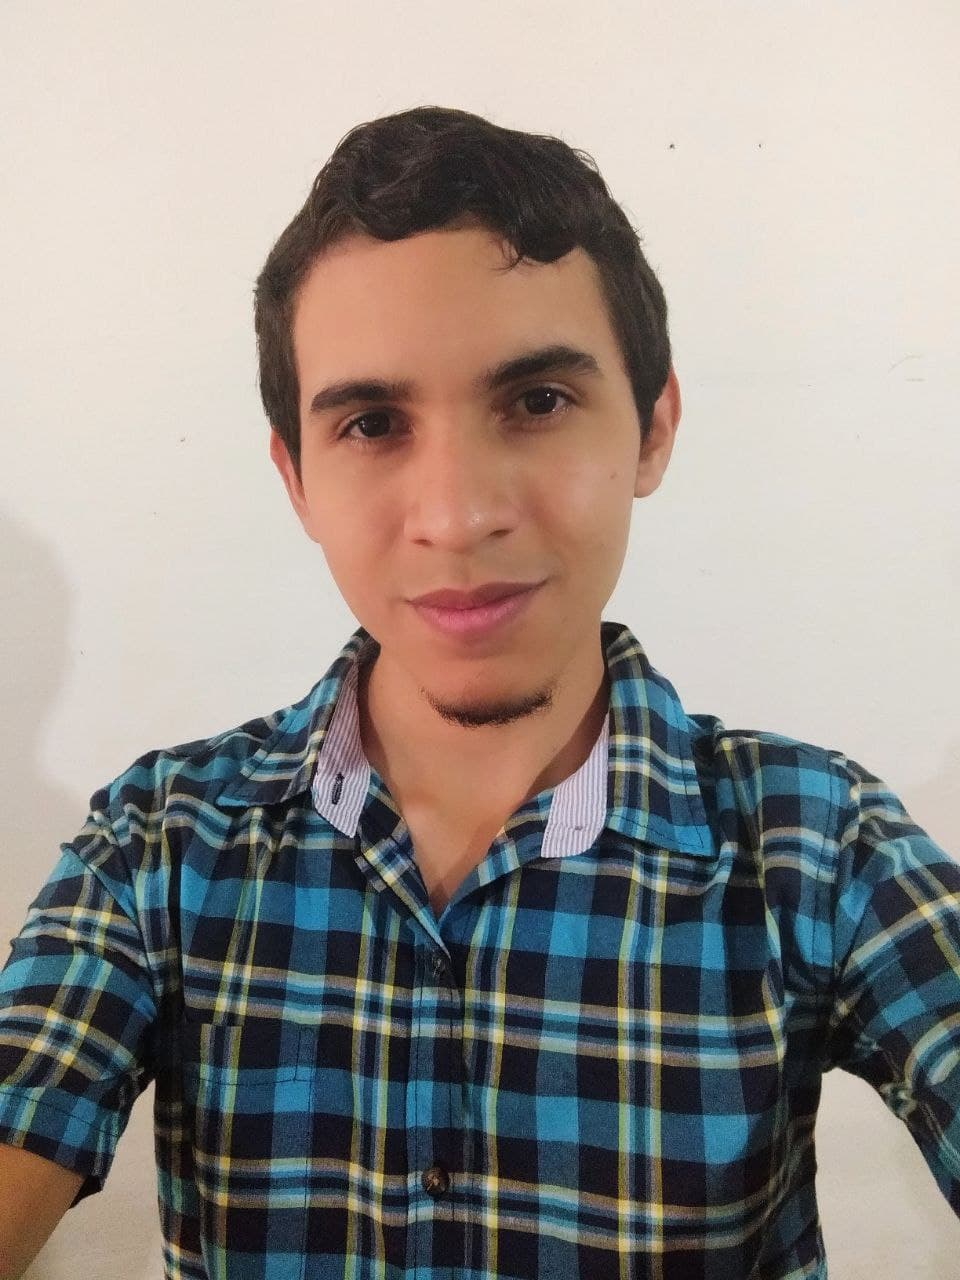
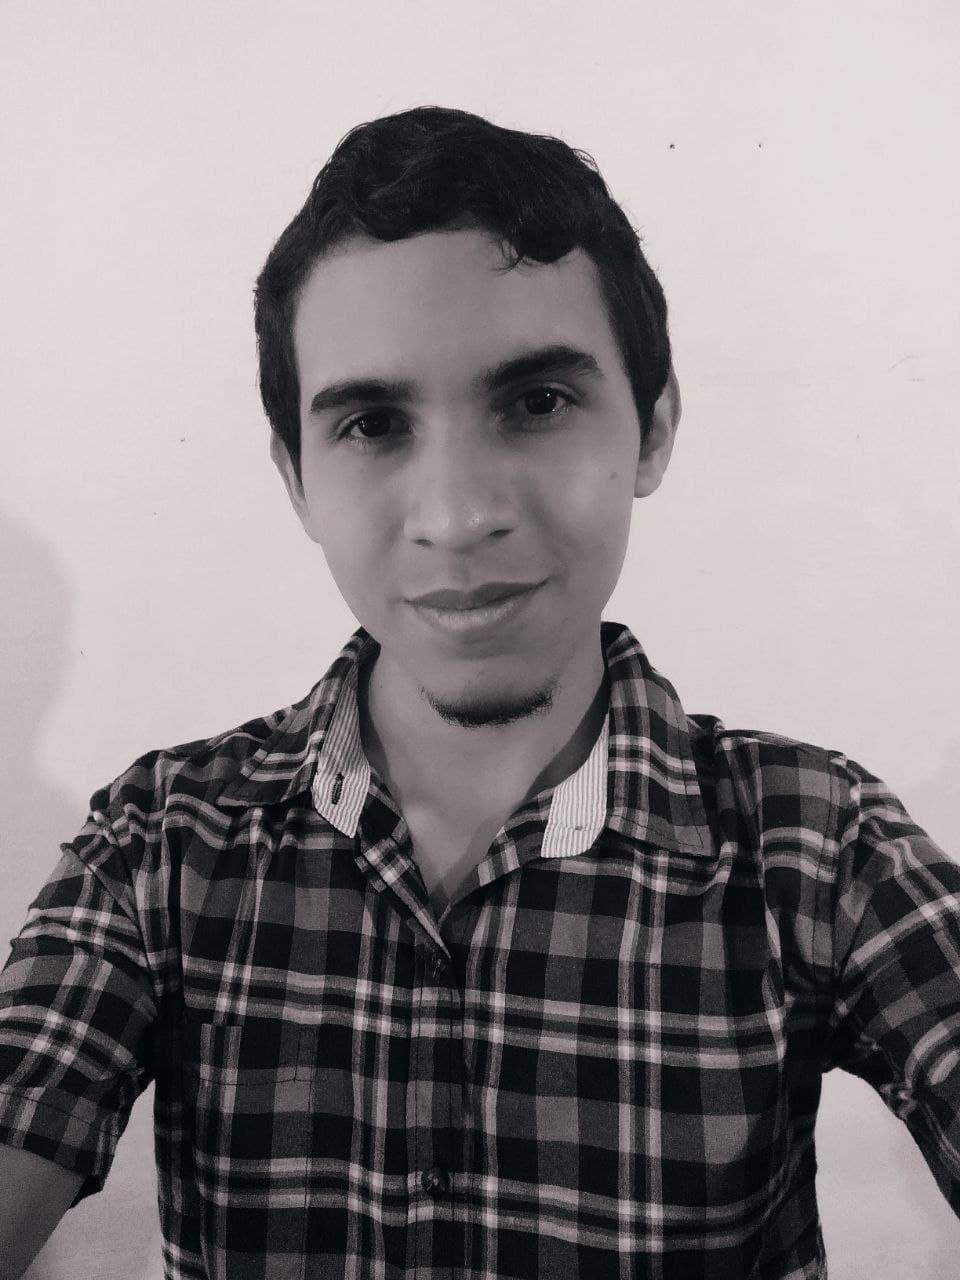
Finally
* Ajustes de tipografia en el modal
* Cambio de filtro de foto
* Implementación de favicon

diff --git a/index.html b/index.html
@@ -4,14 +4,14 @@
     <meta charset="UTF-8">
     <meta name="viewport" content="width=device-width, initial-scale=1.0">
     <meta prperty="og:title" content="Daniel Pineda">
-    <meta prperty="og:image" itemprop="image primaryImageOfPage" content="https://www.danielwebdev.com/assets/img/main/hero-area.jpg">
+    <meta prperty="og:image" itemprop="image primaryImageOfPage" content="assets/img/main/hero-area.jpg">
     <meta property="og:url" content="https://www.danielwebdev.com/">
     <meta name="description" content="Daniel Pineda, Desarrollador web apasionado por el avance tecnológico y la programación. Actulamente con 22 años de edad, teniendo conocimiento en el desarrollo de landing page, websites y sistemas web."/>
     <meta name="keywords" content="Daniel Pineda, desarrollador web, front-end"/>
     <meta name="author" content="Daniel Pineda"/>
     <meta name="robots" content="index, follow"/>
     <title>Daniel Pineda desarrollador web</title>
-    
+    <link rel="shortcut icon" href="assets/img/favicon.ico" type="image/x-icon">
     <!--<link rel="stylesheet" type="text/css" href="assets/css/normalize.css"> -->
     <!--<link rel="stylesheet" type="text/css" href="assets/css/bulma.min.css">-->
     <link href="https://cdnjs.cloudflare.com/ajax/libs/normalize/8.0.1/normalize.min.css" rel="stylesheet">
@@ -297,13 +297,13 @@
             <div class="modal-background"></div>
             <div class="modal-card">
               <header class="modal-card-head">
-                <p class="modal-card-title" id="modalTitle">Modal title</p>
+                <p class="modal-card-title" id="modalTitle"></p>
                 <button class="delete cerrar" aria-label="close" id="cerrar"></button>
               </header>
               <div class="modal-card-body" id="modalBody">
               
                 <div id="p1" class="proyecto proyectoHide">
-                  <h2 class="title mb-4">Trabajos realizados:</h2>
+                  <h2 class="title mb-4 pTitle">Trabajos realizados:</h2>
                   <p class="modalDescription mt-3">
                     Maquetación de nuevas secciones en la pagina web con el uso del plugin Elementor de Wordpress.</p>
                   <p class="modalDescription mt-3">Intermediario con el soporte del servidor donde se aloja lapagina web.</p>
@@ -327,7 +327,7 @@
                 </div>
 
                 <div id="p2" class="proyecto proyectoHide">
-                  <h2 class="title mb-4">Landing page</h2>
+                  <h2 class="title mb-4 pTitle">Landing page</h2>
                   <p class="modalDescription mt-3">Contiene responsive design</p>
                   <p class="modalDescription mt-3">One Page, pequeño proyecto personal</p>
 
@@ -349,7 +349,7 @@
                 </div>
 
                 <div id="p3" class="proyecto proyectoHide">
-                  <h2 class="title mb-4">Sistema Web</h2>
+                  <h2 class="title mb-4 pTitle">Sistema Web</h2>
                   <p class="modalDescription mt-3">Sistema web de almacenamiento de datos y eventos.</p>
                   <p class="modalDescription mt-3">Contiene auditoria informatica.</p>
                   <p class="modalDescription mt-3">4 Niveles de acceso</p>

diff --git a/assets/css/main.css b/assets/css/main.css
@@ -826,6 +826,21 @@ a.navbar-item:hover::after{
         height: 350px;
     }
 
+    .modal-card-title{
+        font-size: 20px;
+    }
+
+    .pTitle{
+        font-size: 22px;
+    }
+
+
+    .tecno__img{
+        height: 20px;
+        width: 20px;
+        margin-right: 5px;
+    }
+
 
     /**************************************/
     /***          fOOOTER ************/
@@ -877,6 +892,25 @@ a.navbar-item:hover::after{
         height: 350px;
     }
 
+    .modal-card-title{
+        font-size: 18px;
+    }
+
+    .pTitle{
+        font-size: 20px;
+    }
+
+    .tecno__p{
+        display: flex;
+        align-items: center;
+        margin-right: 25px;
+    }
+    
+    .tecno__img{
+        height: 20px;
+        width: 20px;
+        margin-right: 5px;
+    }
 
     /**************************************/
     /***          fOOOTER ************/
@@ -885,6 +919,8 @@ a.navbar-item:hover::after{
     .footer__p{
         font-size: 12px;
     }
+
+
 
 }
 
